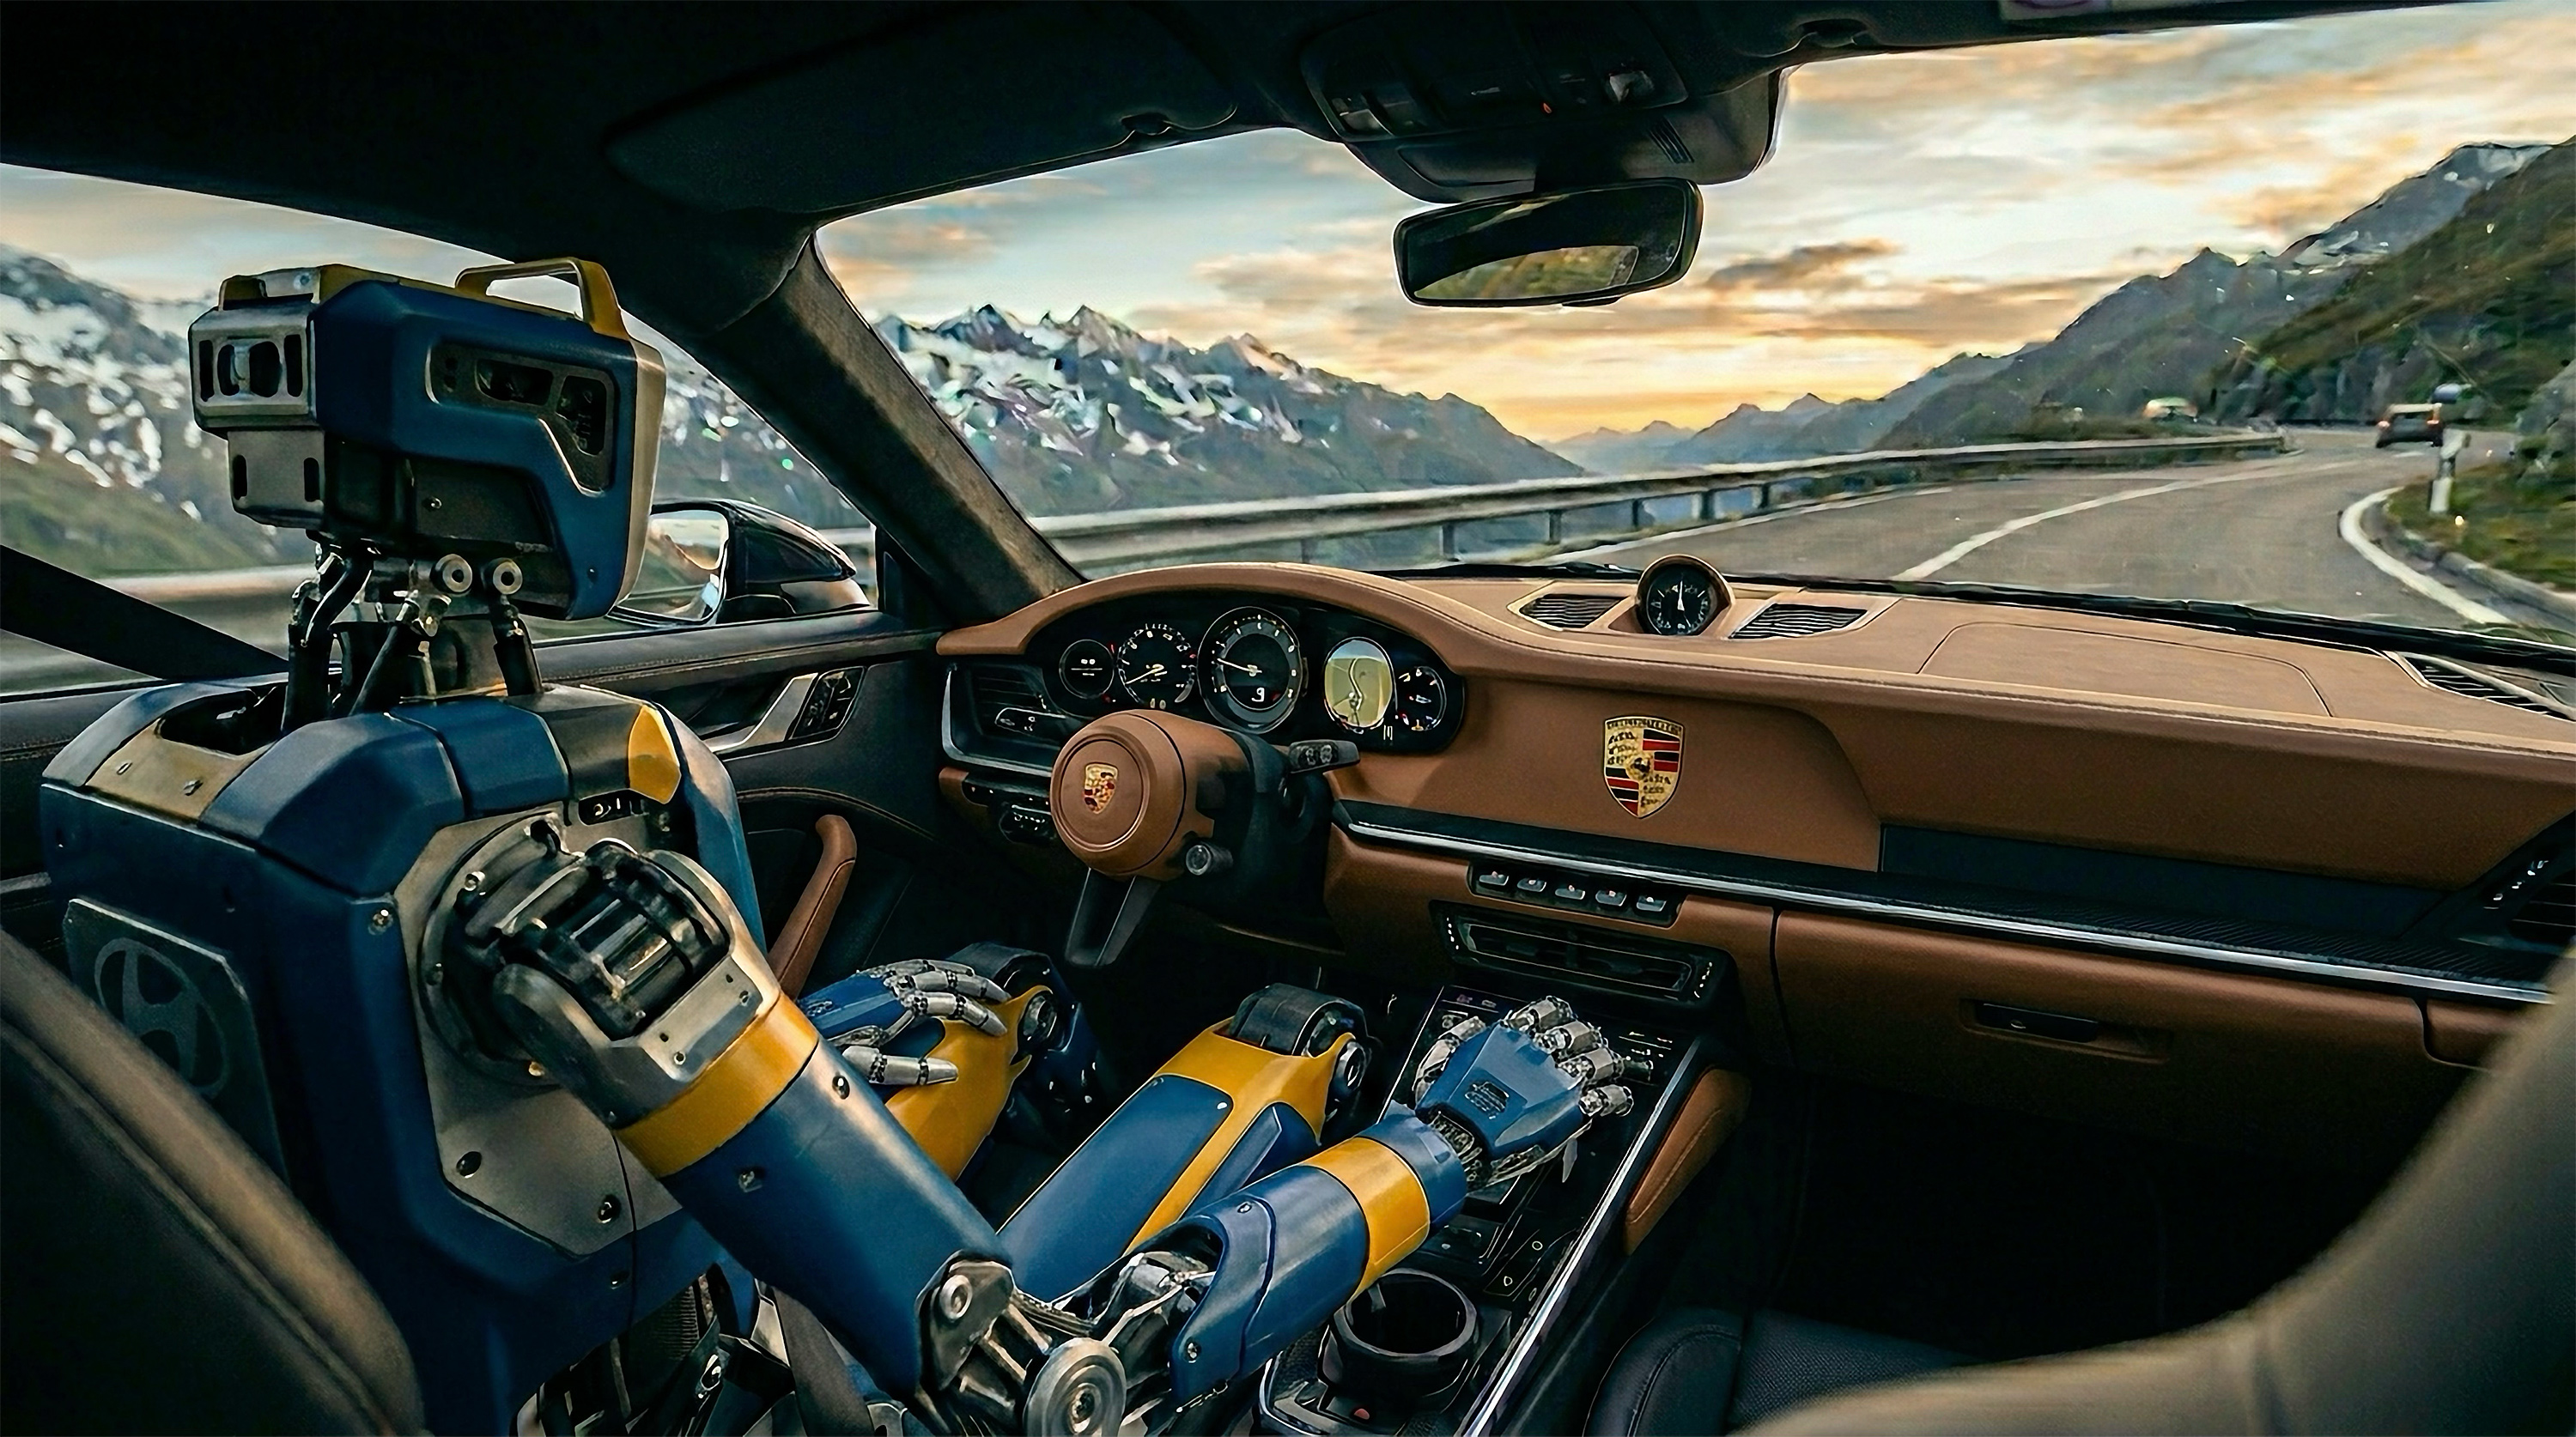
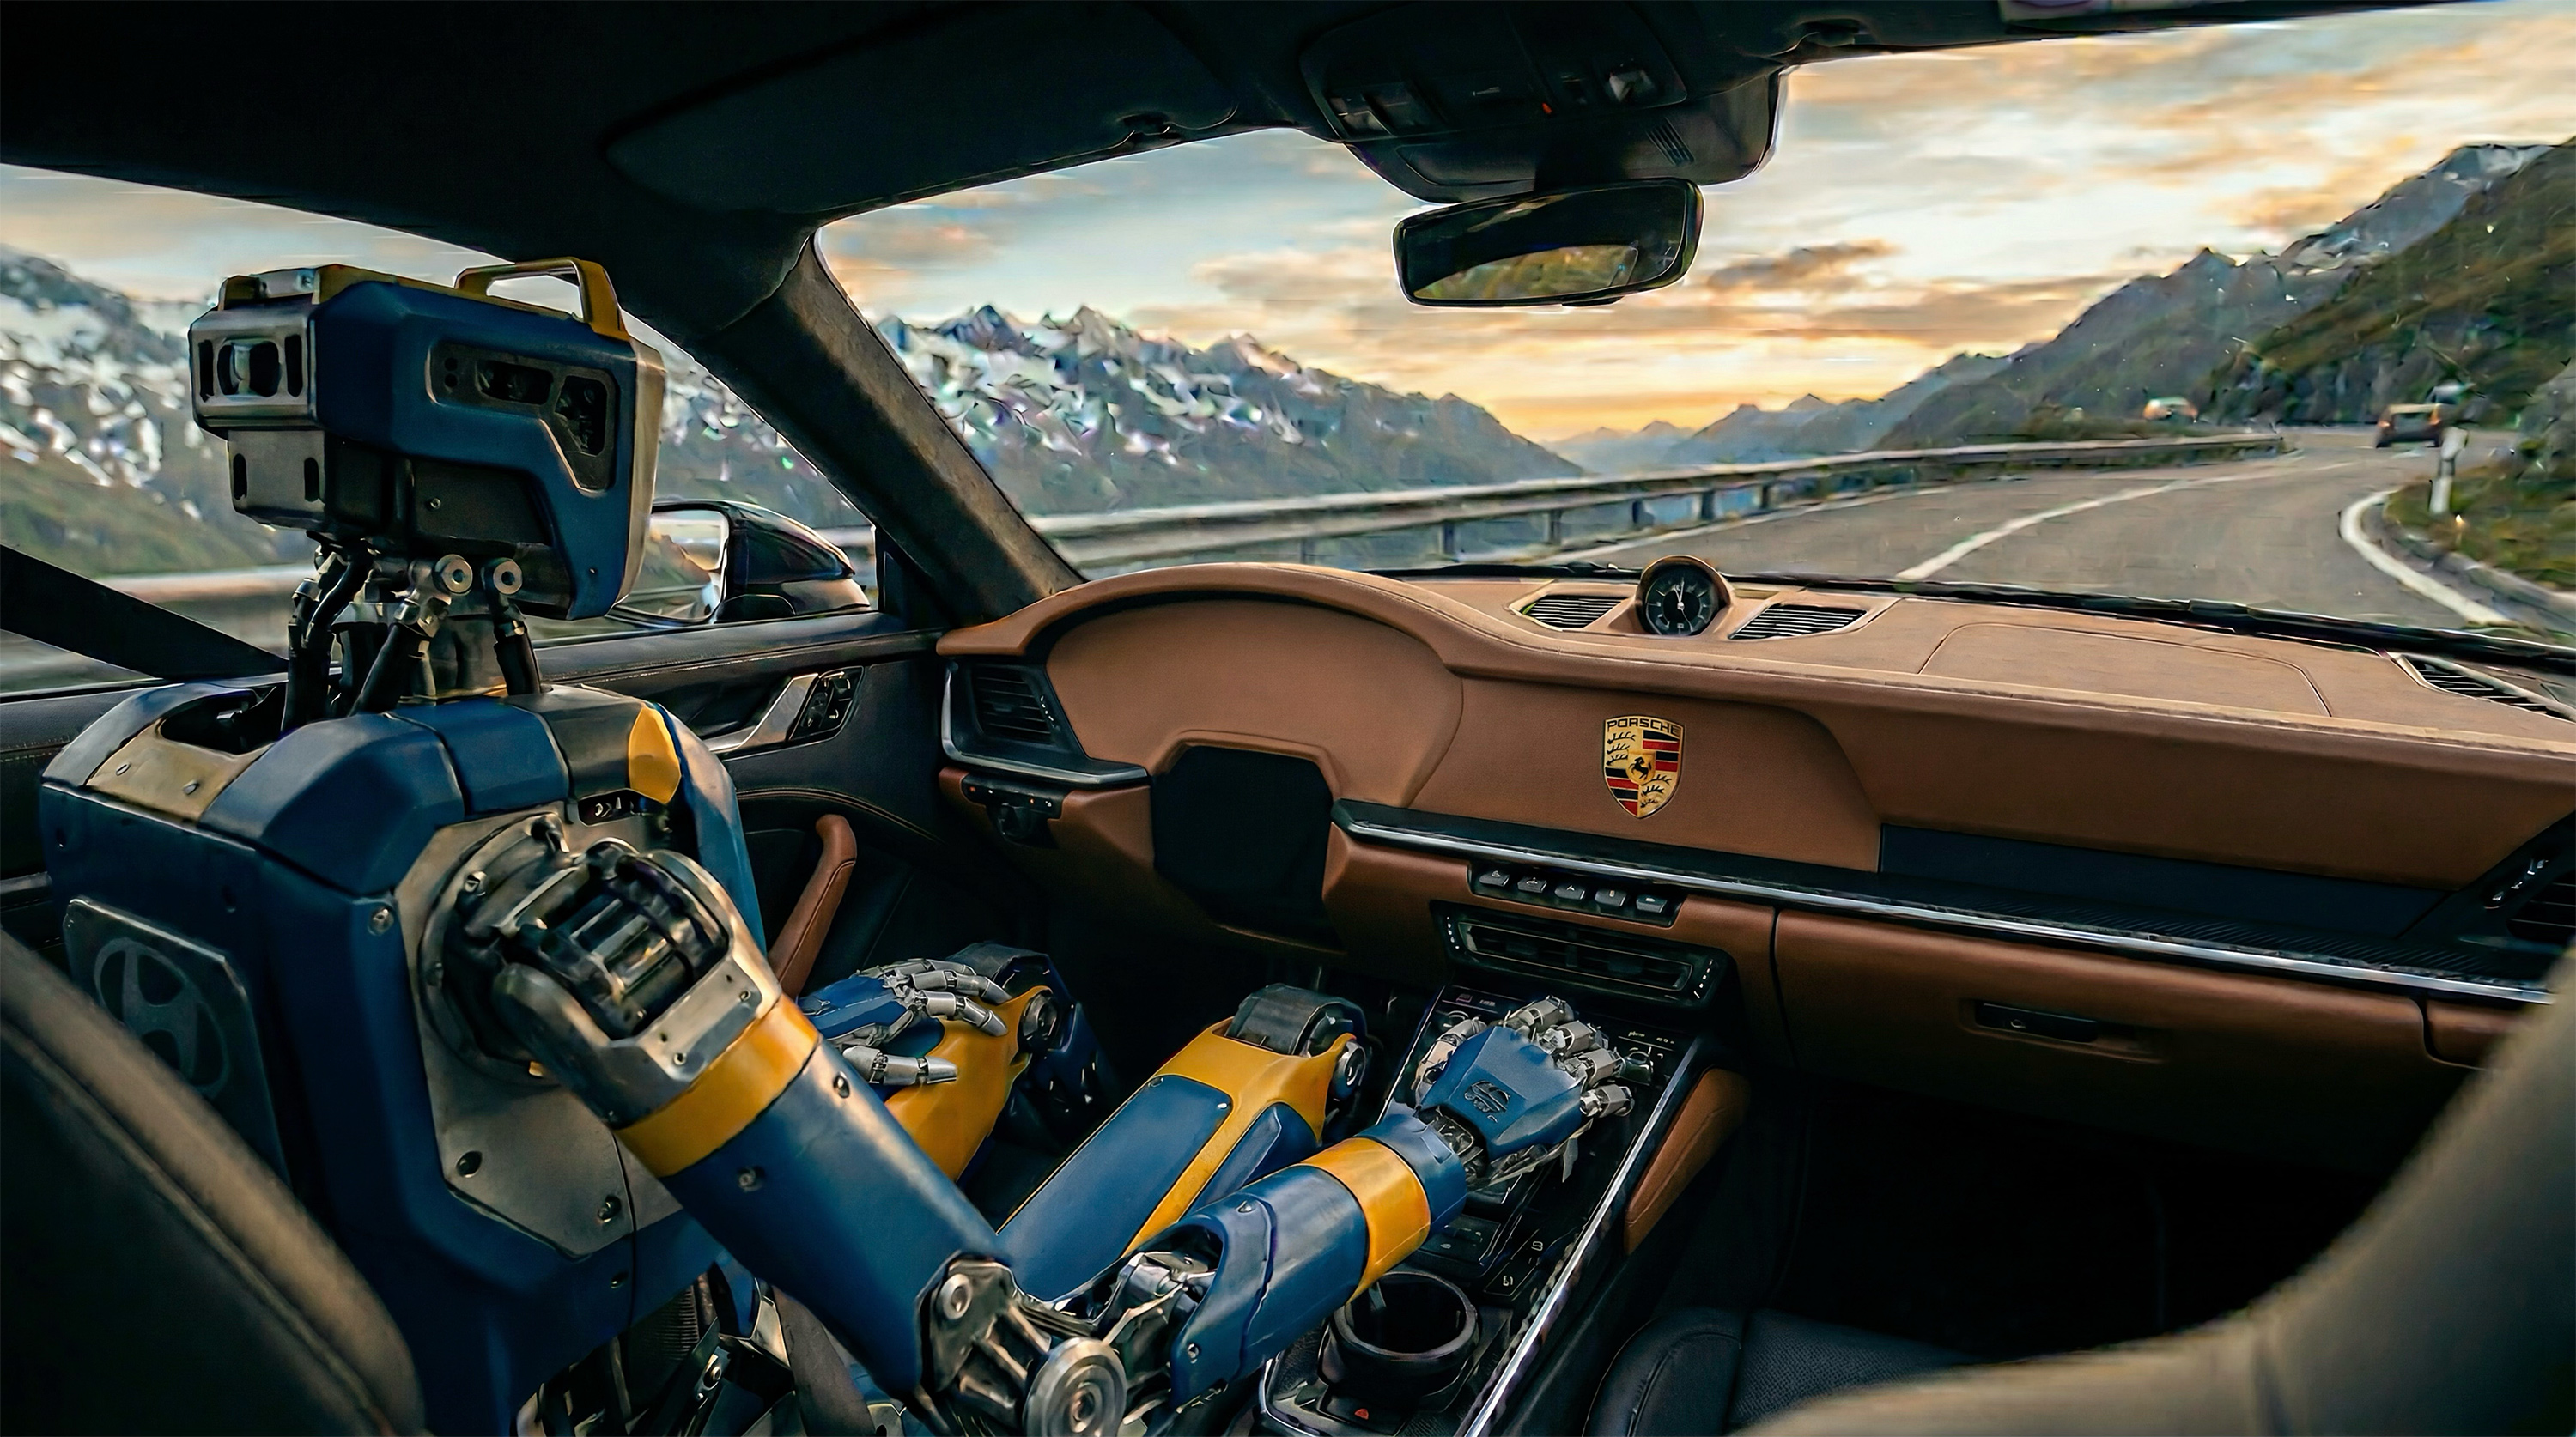
style: extend car background contemplation time and refine bottom underline placement

diff --git a/src/components/Section12.jsx b/src/components/Section12.jsx
@@ -21,13 +21,13 @@ export default function Section12({ isActive }) {
         // 2. The solid black background AND the chapter text fade out together, revealing the car
         timers.push(setTimeout(() => setChapterStep(2), 2200));
 
-        // 3. Staggered fade-in animations for main text
-        timers.push(setTimeout(() => setStep(1), 3000));  // Heading
-        timers.push(setTimeout(() => setStep(2), 3400));  // Quote
-        timers.push(setTimeout(() => setStep(3), 3800));  // Paragraph 1
-        timers.push(setTimeout(() => setStep(4), 4200));  // Paragraph 2 (Bold)
-        timers.push(setTimeout(() => setStep(5), 4600));  // Paragraph 3
-        timers.push(setTimeout(() => setStep(6), 5400));  // Underline Highlight (맨 마지막 액션)
+        // 3. Staggered fade-in animations for main text (살짝 텀을 두어 배경을 감상하게 함)
+        timers.push(setTimeout(() => setStep(1), 4500));  // Heading
+        timers.push(setTimeout(() => setStep(2), 4900));  // Quote
+        timers.push(setTimeout(() => setStep(3), 5300));  // Paragraph 1
+        timers.push(setTimeout(() => setStep(4), 5700));  // Paragraph 2 (Bold)
+        timers.push(setTimeout(() => setStep(5), 6100));  // Paragraph 3
+        timers.push(setTimeout(() => setStep(6), 6900));  // Underline Highlight (맨 마지막 액션)
         
         return () => timers.forEach(t => clearTimeout(t));
     }, [isActive]);
@@ -119,7 +119,7 @@ export default function Section12({ isActive }) {
                         <>
                             <span className="relative inline-block pb-[1px]">
                                 AI의 능력은 '맥락 (Context)'
-                                <span className={`absolute bottom-[2px] left-0 h-[2px] md:h-[3px] bg-[#f5f5f7] -z-10 transition-all duration-[800ms] ease-[cubic-bezier(0.25,1,0.5,1)] ${step >= 6 ? 'w-full opacity-100' : 'w-0 opacity-0'}`}></span>
+                                <span className={`absolute bottom-[3px] left-0 h-[1px] md:h-[2px] bg-[#f5f5f7] -z-10 transition-all duration-[800ms] ease-[cubic-bezier(0.25,1,0.5,1)] ${step >= 6 ? 'w-full opacity-100' : 'w-0 opacity-0'}`}></span>
                             </span>에 좌우됩니다.<br/>
                             맥락 없는 데이터는 AI라는 운전자를 최고급 엔진만 있고 운전대가 없는 포르쉐에 태운 것과 같습니다.
                         </>
@@ -127,7 +127,7 @@ export default function Section12({ isActive }) {
                         <>
                             An AI's true ability is solely dependent on <span className="relative inline-block pb-[1px]">
                                 'Context'
-                                <span className={`absolute bottom-[2px] left-0 h-[2px] md:h-[3px] bg-[#f5f5f7] -z-10 transition-all duration-[800ms] ease-[cubic-bezier(0.25,1,0.5,1)] ${step >= 6 ? 'w-full opacity-100' : 'w-0 opacity-0'}`}></span>
+                                <span className={`absolute bottom-[3px] left-0 h-[1px] md:h-[2px] bg-[#f5f5f7] -z-10 transition-all duration-[800ms] ease-[cubic-bezier(0.25,1,0.5,1)] ${step >= 6 ? 'w-full opacity-100' : 'w-0 opacity-0'}`}></span>
                             </span>.<br/>
                             Contextless data is like putting an AI driver in a Porsche with a top-tier engine, but no steering wheel.
                         </>

diff --git a/src/components/MainLayout.jsx b/src/components/MainLayout.jsx
@@ -31,7 +31,7 @@ export default function MainLayout() {
     const [isActionDone, setIsActionDone] = useState(false);
 
     // Animation durations mapped closely to each page's visual completion timing
-    const slideAnimationTimes = [1500, 3600, 4200, 2600, 4200, 2500, 3500, 4000, 4500, 3500, 4500, 7500];
+    const slideAnimationTimes = [1500, 3600, 4200, 2600, 4200, 2500, 3500, 4000, 4500, 3500, 4500, 9000];
 
     useEffect(() => {
         setIsActionDone(false);